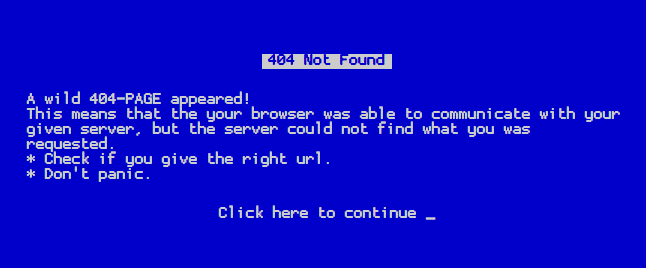
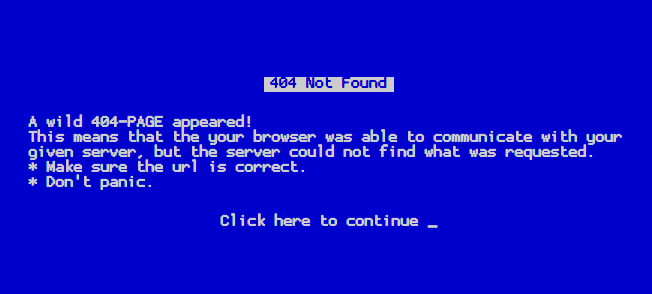
update screenshots

Changed region(s): [[0.031, 0.3284, 0.9598, 0.6866], [0.3406, 0.7164, 0.6811, 0.8358], [0.4025, 0.1791, 0.6192, 0.3284]]

diff --git a/dos-404.html b/dos-404.html
@@ -52,7 +52,7 @@ a {
         <p>
             A wild 404-PAGE appeared!<br>
             This means that the your browser was able to communicate with your given server, but the server could not find what was requested.<br>
-            * Make sure the url is correct<br>
+            * Make sure the url is correct.<br>
             * Don't panic.
         </p>
         <div><a href="/">Click here to continue _</a></div>
